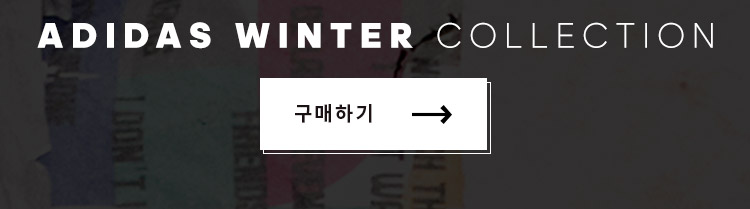
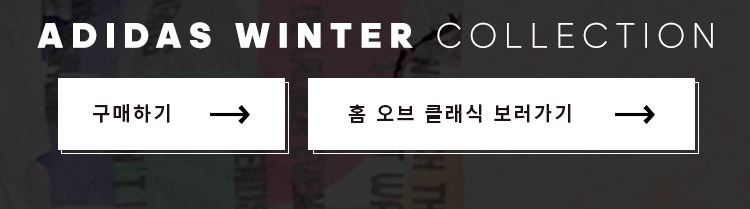
adi_cp_윈터버튼추가 + 울부한글 문구삭제

Changed region(s): [[0.0613, 0.3732, 0.9507, 0.7464]]

diff --git a/mobile/html/adidas/pn/winter.html b/mobile/html/adidas/pn/winter.html
@@ -20,7 +20,7 @@
 
                     <div class="button_area_v2">
                         <div class="white">
-                            <a href="https://m.adidas.co.kr/MO/Promotion/landingPage.action?pageNo=1012" campaign-label="구매하기">
+                            <a href="https://m.adidas.co.kr/MO/Promotion/landingPage.action?pageNo=1012">
                                 구매하기
                                 <span class="arrow"></span>
                             </a>
@@ -32,11 +32,11 @@
                 <div class="section sec1 scroll">
                     <div class="sect_img">
                         <img src="/images/adidas/2019/event/originals/winter/sect_01_img-1.jpg" alt="">
-                        <a href="https://shop.adidas.co.kr/PF070801.action?pageNo=1012" campaign-label="구매하기">
+                        <a href="https://shop.adidas.co.kr/PF070801.action?pageNo=1012">
                             <img src="/images/adidas/2019/event/originals/winter/sect_01_btn-1.jpg" alt="">
                         </a>
                         <img src="/images/adidas/2019/event/originals/winter/sect_01_img-2.jpg" alt="">
-                        <a href="https://shop.adidas.co.kr/PF070801.action?pageNo=1012" campaign-label="구매하기">
+                        <a href="https://shop.adidas.co.kr/PF070801.action?pageNo=1012">
                             <img src="/images/adidas/2019/event/originals/winter/sect_01_btn-2.jpg" alt="">
                         </a>
                     </div>
@@ -46,13 +46,16 @@
                 <div class="section sec2 scroll">
                     <div class="sect_img">
                         <img src="/images/adidas/2019/event/originals/winter/sect_02_img-1.jpg" alt="">
-                        <a href="https://shop.adidas.co.kr/PF070801.action?pageNo=1012" campaign-label="구매하기">
+                        <a href="https://shop.adidas.co.kr/PF070801.action?pageNo=1012">
                             <img src="/images/adidas/2019/event/originals/winter/sect_02_btn-1.jpg" alt="">
                         </a>
                         <img src="/images/adidas/2019/event/originals/winter/sect_02_img-2.jpg" alt="">
-                        <a href="https://shop.adidas.co.kr/PF070801.action?pageNo=1012" campaign-label="구매하기">
+                        <div class="btn_box" style="position:relative;">
                             <img src="/images/adidas/2019/event/originals/winter/sect_02_btn-2.jpg" alt="">
-                        </a>
+                            <a href="https://shop.adidas.co.kr/PF070801.action?pageNo=1012" style="position: absolute; width: 40%;height: 50%;top: 30%;left:0;"></a>
+                            <a href="https://m.adidas.co.kr/MO/Event/pnEvtView.action?pn=Home_of_Classics" style="position: absolute; width: 60%;height: 50%;top: 30%;right:0;"></a>
+                        </div>
+                        
                     </div>
                 </div>
            </div>

diff --git a/mobile/html/adidas/2019/event/originals/winter/build/index.html b/mobile/html/adidas/2019/event/originals/winter/build/index.html
@@ -489,9 +489,12 @@
                             <img src="/images/adidas/2019/event/originals/winter/sect_02_btn-1.jpg" alt="">
                         </a>
                         <img src="/images/adidas/2019/event/originals/winter/sect_02_img-2.jpg" alt="">
-                        <a href="https://shop.adidas.co.kr/PF070801.action?pageNo=1012">
+                        <div class="btn_box" style="position:relative;">
                             <img src="/images/adidas/2019/event/originals/winter/sect_02_btn-2.jpg" alt="">
-                        </a>
+                            <a href="https://shop.adidas.co.kr/PF070801.action?pageNo=1012" style="position: absolute; width: 40%;height: 50%;top: 30%;left:0;"></a>
+                            <a href="https://m.adidas.co.kr/MO/Event/pnEvtView.action?pn=Home_of_Classics" style="position: absolute; width: 60%;height: 50%;top: 30%;right:0;"></a>
+                        </div>
+                        
                     </div>
                 </div>
            </div>

diff --git a/mobile/html/adidas/2019/event/originals/winter/index.html b/mobile/html/adidas/2019/event/originals/winter/index.html
@@ -487,9 +487,12 @@
                             <img src="/images/adidas/2019/event/originals/winter/sect_02_btn-1.jpg" alt="">
                         </a>
                         <img src="/images/adidas/2019/event/originals/winter/sect_02_img-2.jpg" alt="">
-                        <a href="https://shop.adidas.co.kr/PF070801.action?pageNo=1012">
+                        <div class="btn_box" style="position:relative;">
                             <img src="/images/adidas/2019/event/originals/winter/sect_02_btn-2.jpg" alt="">
-                        </a>
+                            <a href="https://shop.adidas.co.kr/PF070801.action?pageNo=1012" style="position: absolute; width: 40%;height: 50%;top: 30%;left:0;"></a>
+                            <a href="https://m.adidas.co.kr/MO/Event/pnEvtView.action?pn=Home_of_Classics" style="position: absolute; width: 60%;height: 50%;top: 30%;right:0;"></a>
+                        </div>
+                        
                     </div>
                 </div>
            </div>

diff --git a/mobile/html/adidas/pn/HANGUL.html b/mobile/html/adidas/pn/HANGUL.html
@@ -17,10 +17,10 @@
                         <p>
                             하늘연달 아흐레 한글날,울트라부스트에 한국의 정신을 새기다.
                         </p>
-                        <p>
+                        <!-- <p>
                             10/4(금) 11시 온라인 스토어 단독 선발매<br>
                             10/9(수) 11시 아디다스 수도권 주요 매장, 온라인 스토어 정식 발매
-                        </p>
+                        </p> -->
                         <!-- 2차에선 주석 해제 -->
                         <div class="button_area_v2">
                             <div class="">
